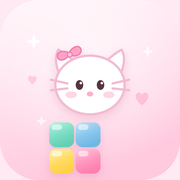
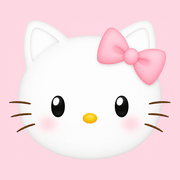
feat: JISUH Blast! 키티 로고·PWA 아이콘을 고화질 이미지로 교체
- 좌상단 SVG 키티를 투명 배경 kitty-logo.png(1042x899)로 교체
- apple-touch-icon(180)·icon-192·icon-512를 파스텔 핑크 배경 키티 얼굴로 교체
- 오리지널 비율: 둥근 흰 얼굴, 입 없음, 노란 타원 코, 수염 3가닥, 오른쪽 귀 핑크 리본

diff --git a/public/jisuh-blast/index.html b/public/jisuh-blast/index.html
@@ -61,7 +61,7 @@ body{
 }
 .topbar > *{ pointer-events: auto; }
 .kitty-wrap{ display: flex; flex-direction: column; align-items: flex-start; gap: 3px; }
-.kitty{ width: 62px; height: 57px; display: block; filter: drop-shadow(0 3px 5px rgba(232,106,155,.22)); }
+.kitty{ width: 66px; height: auto; display: block; filter: drop-shadow(0 3px 5px rgba(232,106,155,.22)); }
 .best-pill{
   display: inline-flex; align-items: center; gap: 3px;
   max-width: 100%; padding: 2px 8px 2px 6px;
@@ -348,24 +348,7 @@ body{
 
 <header class="topbar">
   <div class="kitty-wrap">
-    <svg class="kitty" viewBox="0 0 120 112" aria-hidden="true">
-      <path d="M26 50 C20 36 20 22 25 13 C36 19 46 27 52 35 Z" fill="#FFFFFF" stroke="#F3BBD1" stroke-width="3.2" stroke-linejoin="round"/>
-      <path d="M94 50 C100 36 100 22 95 13 C84 19 74 27 68 35 Z" fill="#FFFFFF" stroke="#F3BBD1" stroke-width="3.2" stroke-linejoin="round"/>
-      <ellipse cx="60" cy="64" rx="39" ry="33" fill="#FFFFFF" stroke="#F3BBD1" stroke-width="3.2"/>
-      <ellipse cx="45" cy="64" rx="4.3" ry="5.6" fill="#54343F"/>
-      <ellipse cx="75" cy="64" rx="4.3" ry="5.6" fill="#54343F"/>
-      <circle cx="46.6" cy="61.8" r="1.5" fill="#FFFFFF"/>
-      <circle cx="76.6" cy="61.8" r="1.5" fill="#FFFFFF"/>
-      <ellipse cx="36" cy="75" rx="6.4" ry="3.8" fill="#FFD6E4"/>
-      <ellipse cx="84" cy="75" rx="6.4" ry="3.8" fill="#FFD6E4"/>
-      <ellipse cx="60" cy="73.5" rx="3.7" ry="2.9" fill="#FFAFC9"/>
-      <path d="M15 60 L33 64.5 M15 72 L33 70 M105 60 L87 64.5 M105 72 L87 70" stroke="#F3BBD1" stroke-width="3" stroke-linecap="round"/>
-      <g transform="translate(36 30) rotate(-18) scale(1.06)">
-        <path d="M0 0 C-13 -10 -23 -5 -21.5 3.5 C-20 12 -8 10.5 0 4 Z" fill="#FFA2C6" stroke="#F07EAE" stroke-width="2.2" stroke-linejoin="round"/>
-        <path d="M0 4 C8.5 11.5 20.5 9.5 22 1.5 C23.5 -6.5 13 -11.5 0 0 Z" fill="#FFA2C6" stroke="#F07EAE" stroke-width="2.2" stroke-linejoin="round"/>
-        <circle cx="0.5" cy="3.6" r="4.1" fill="#FFC7DC" stroke="#F07EAE" stroke-width="1.6"/>
-      </g>
-    </svg>
+    <img class="kitty" src="/jisuh-blast/kitty-logo.png" alt="키티" width="132" height="114" decoding="sync">
     <div class="best-pill"><span class="cup">🏆</span><span id="bestVal">0</span></div>
   </div>
 
